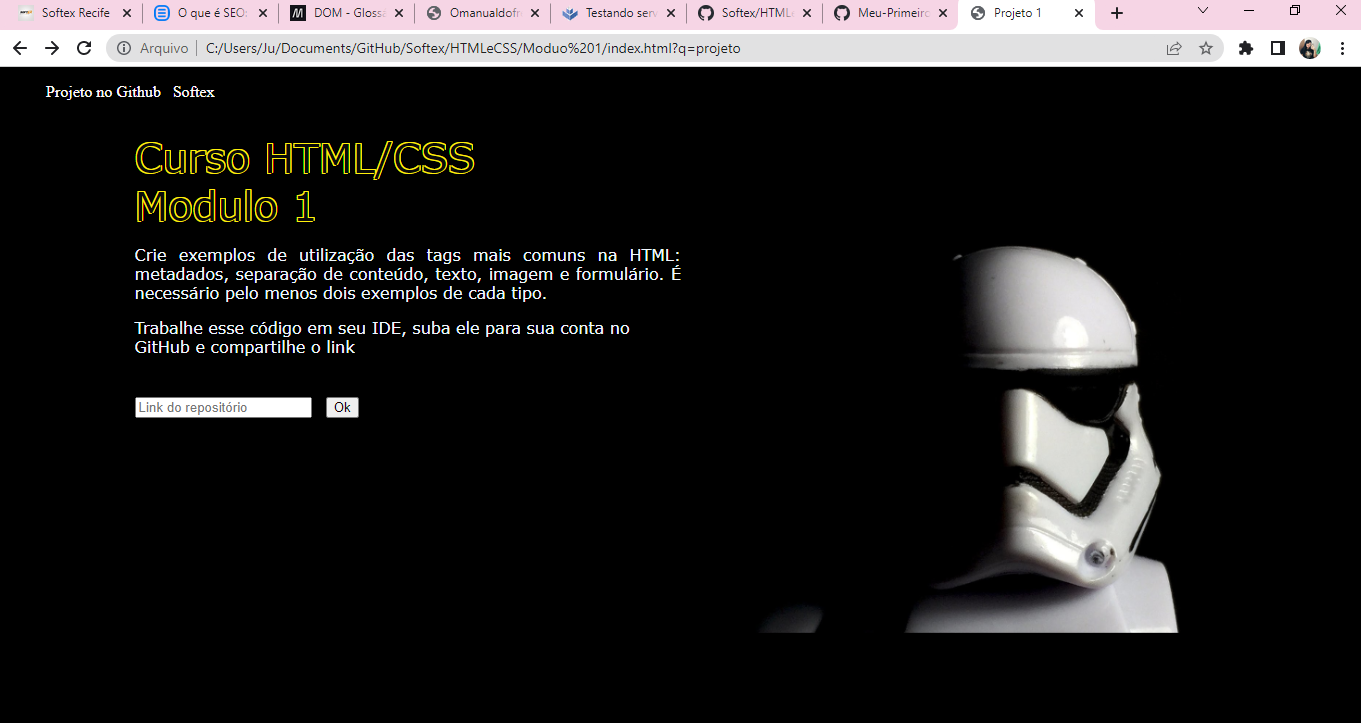
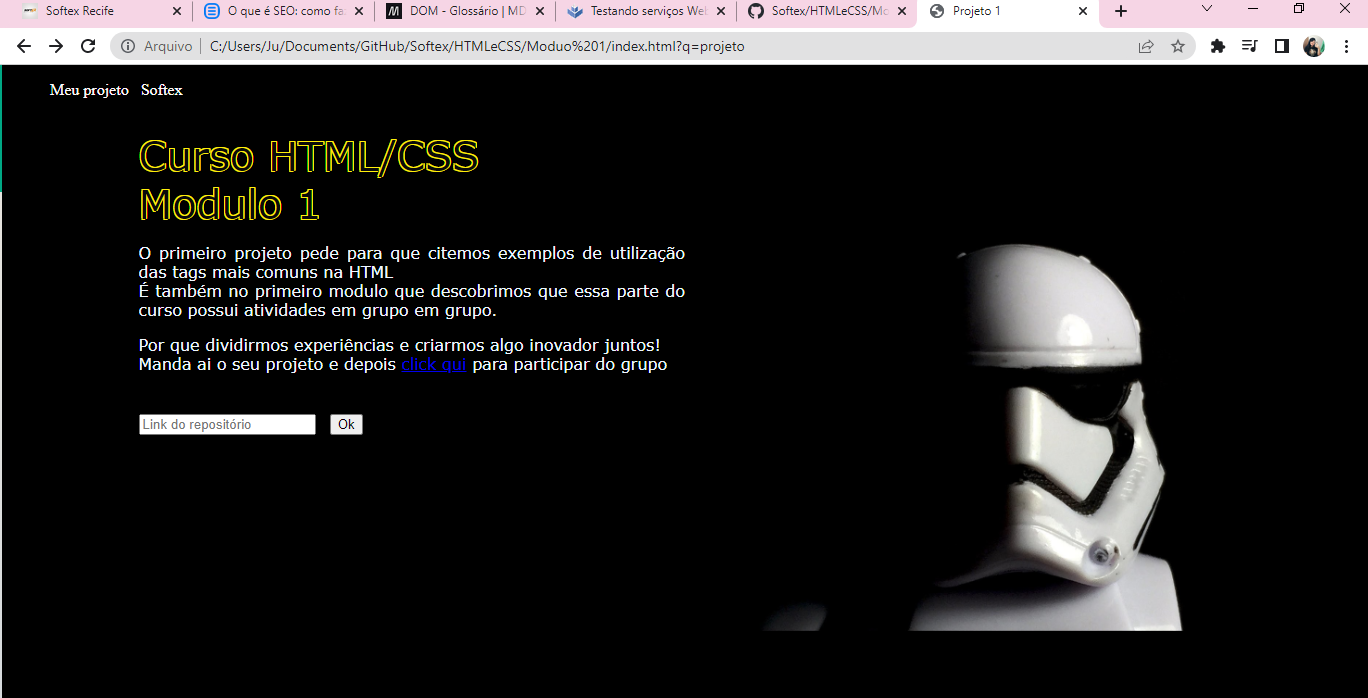
atualização
Link para convite adicionado e print da tela atualizado

diff --git a/HTMLeCSS/Moduo 1/index.html b/HTMLeCSS/Moduo 1/index.html
@@ -11,7 +11,7 @@
     <header>
         <div class="link1">
             <ul>
-                <a href="https://github.com/julianabrunaah/"><li>Projeto no Github </li></a>
+                <a href="https://github.com/julianabrunaah/Softex/tree/main/HTMLeCSS/Moduo%201"><li>Meu projeto </li></a>
                 <a href="https://softexrecife.joyclass.com/"><li>&nbsp Softex</li></a>
             </ul>
         </div>
@@ -22,14 +22,16 @@
 
         <div>
             <p class="txt2">
-                Crie exemplos de utilização das tags mais comuns na HTML: metadados, separação de conteúdo, texto, imagem e formulário. É necessário pelo menos dois exemplos de cada tipo.
+                O primeiro projeto pede para que citemos exemplos de utilização das tags mais comuns na HTML<br>
+                É também no primeiro modulo que descobrimos que essa parte do curso possui atividades em grupo em grupo.
             </p>
         </div>
 
         <form method="post" action="/receber_dados">
             <div>
                 <p class="txt3">
-                    Trabalhe esse código em seu IDE, suba ele para sua conta no GitHub e compartilhe o link
+                    Por que dividirmos experiências e criarmos algo inovador juntos!<br>
+                    Manda ai o seu projeto e depois <a href="https://chat.whatsapp.com/GskAkdBJzow8CSeyN7bU9y">click qui</a> para participar do grupo
                 </p>
                 <input type="text" name="projeto" placeholder="Link do repositório">
                 <button>
